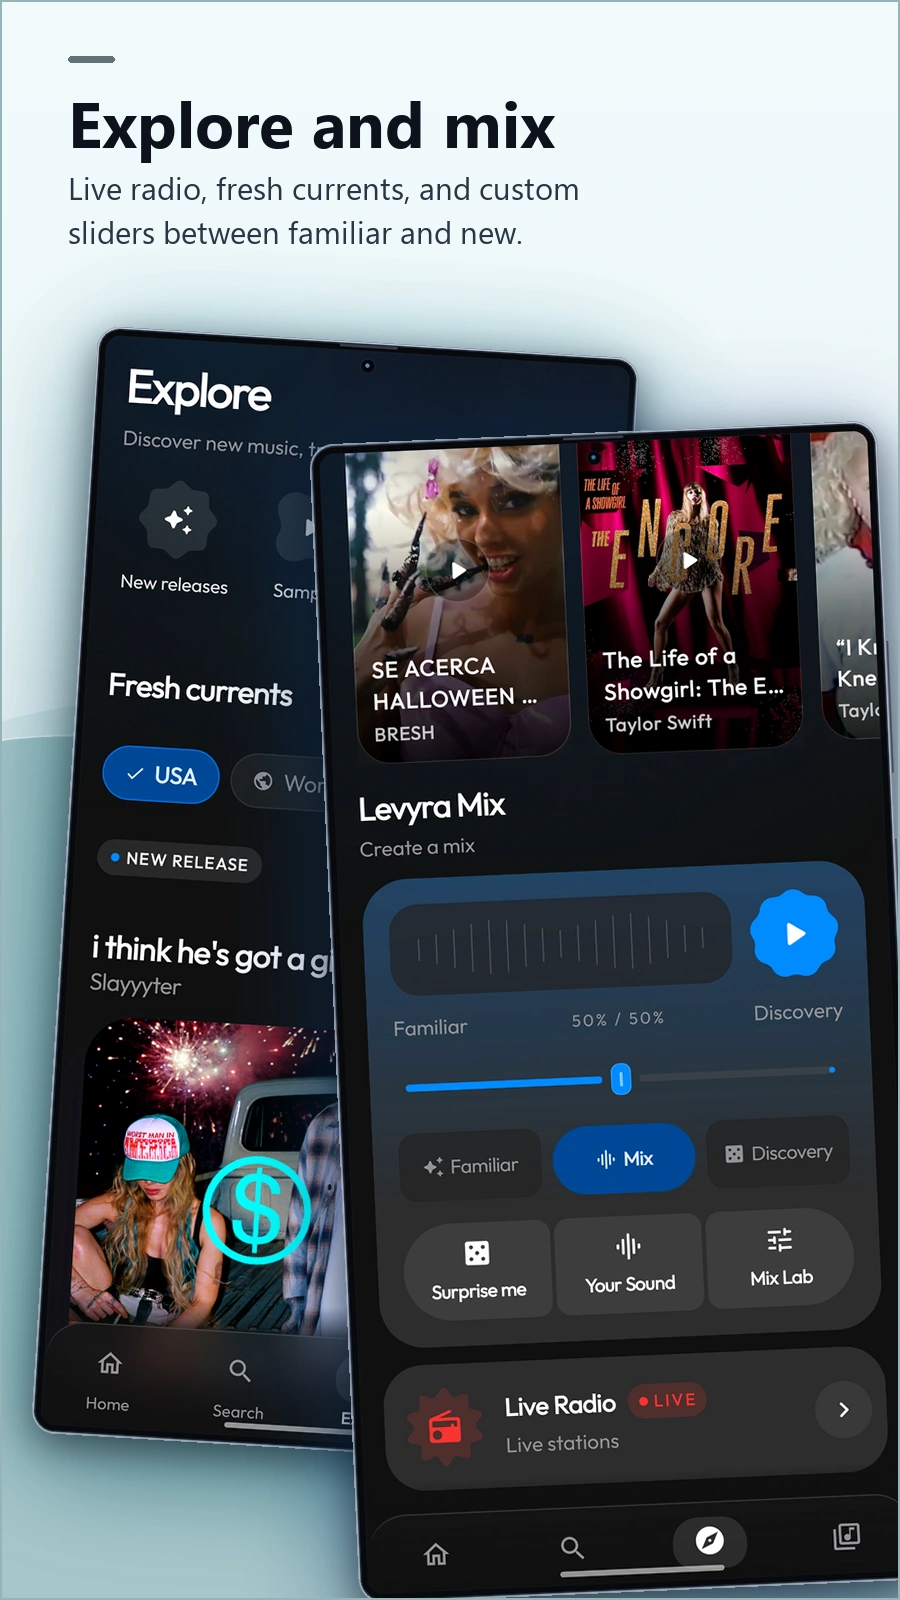
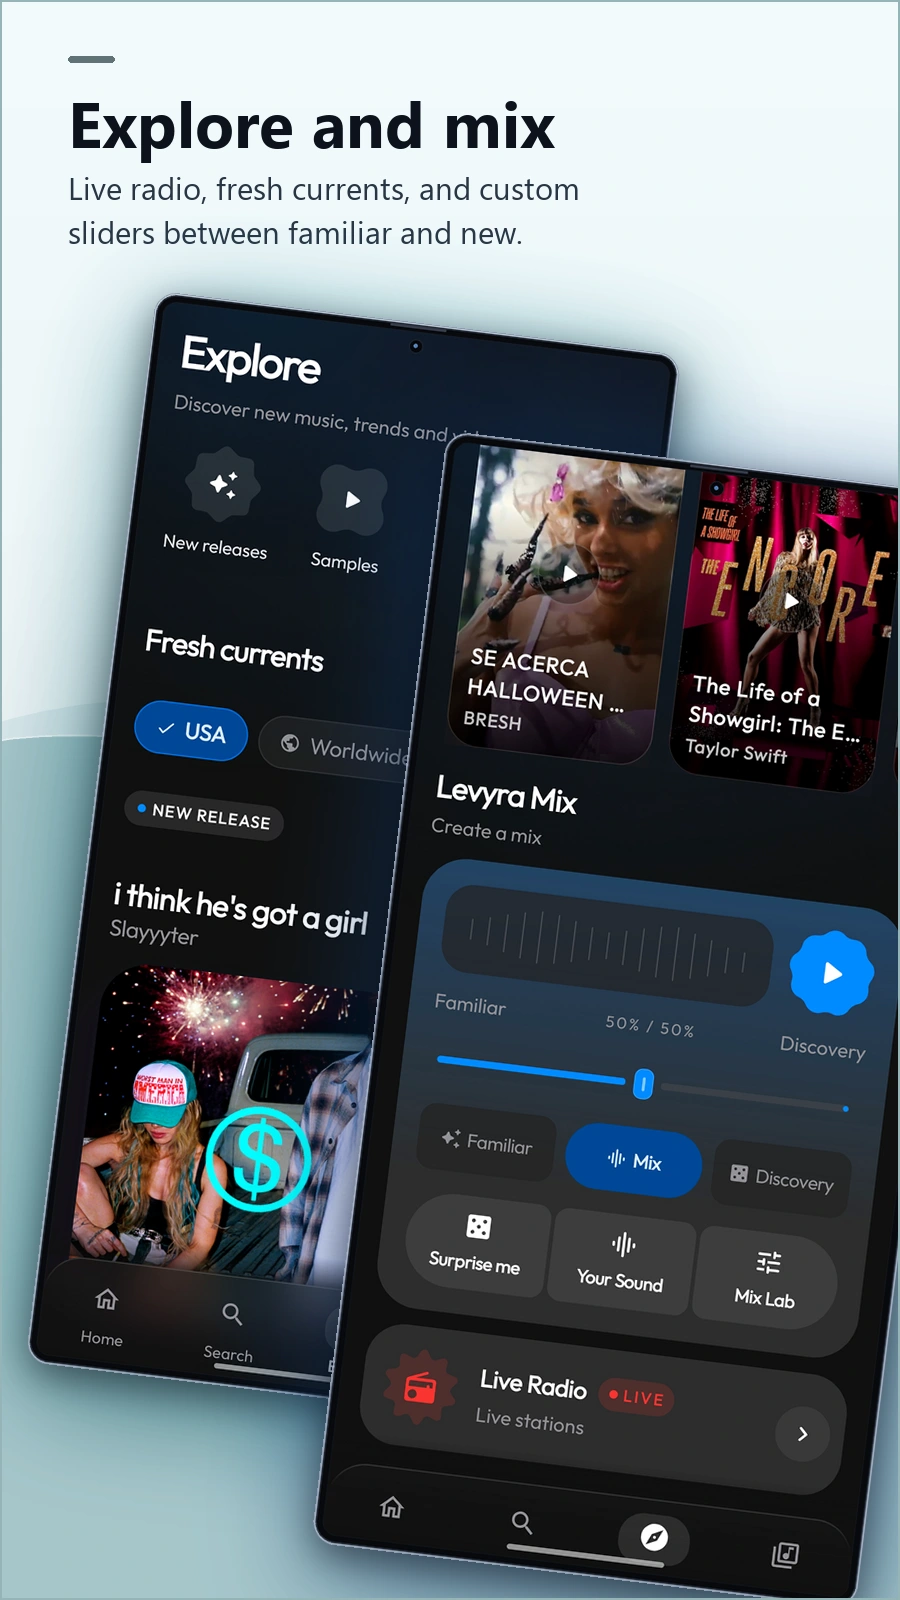
docs(readme): polish Explore & Mix showcase card with cohesive keynote cascade

diff --git a/scripts/generate_showcase_assets.py b/scripts/generate_showcase_assets.py
@@ -463,20 +463,23 @@ def generate_explore_mix_card(card_w, card_h):
     )
 
     with Image.open(s1_path) as src1:
-        p1 = create_clean_phone(src1, target_height=1090)
+        p1 = create_clean_phone(src1, target_height=1060)
     with Image.open(s2_path) as src2:
-        p2 = create_clean_phone(src2, target_height=1140)
+        p2 = create_clean_phone(src2, target_height=1100)
 
-    p1_rot = p1.rotate(-3.5, resample=Image.Resampling.BICUBIC, expand=True)
-    p2_rot = p2.rotate(2.5, resample=Image.Resampling.BICUBIC, expand=True)
+    rot_angle = -7.0
+    p1_rot = p1.rotate(rot_angle, resample=Image.Resampling.BICUBIC, expand=True)
+    p2_rot = p2.rotate(rot_angle, resample=Image.Resampling.BICUBIC, expand=True)
 
-    glow1, gpad1 = create_colored_glow(p1_rot, (0, 190, 220), blur=55, opacity=85, offset_y=16)
-    bg.paste(glow1, (30 - gpad1, 325 - gpad1), glow1)
-    paste_phone_with_studio_depth(bg, p1_rot, 30, 325)
+    p1_x, p1_y = 25, 290
+    glow1, gpad1 = create_colored_glow(p1_rot, (0, 205, 230), blur=55, opacity=80, offset_y=16)
+    bg.paste(glow1, (p1_x - gpad1, p1_y - gpad1), glow1)
+    paste_phone_with_studio_depth(bg, p1_rot, p1_x, p1_y)
 
-    glow2, gpad2 = create_colored_glow(p2_rot, (20, 130, 245), blur=50, opacity=80, offset_y=22)
-    bg.paste(glow2, (308 - gpad2, 420 - gpad2), glow2)
-    paste_phone_with_studio_depth(bg, p2_rot, 308, 420)
+    p2_x, p2_y = 310, 430
+    glow2, gpad2 = create_colored_glow(p2_rot, (25, 125, 245), blur=60, opacity=85, offset_y=20)
+    bg.paste(glow2, (p2_x - gpad2, p2_y - gpad2), glow2)
+    paste_phone_with_studio_depth(bg, p2_rot, p2_x, p2_y)
 
     border_col = tuple(max(0, int(accent_tone[i] - 18)) for i in range(3))
     ImageDraw.Draw(bg).rectangle((0, 0, card_w - 1, card_h - 1), outline=(*border_col, 90), width=2)
